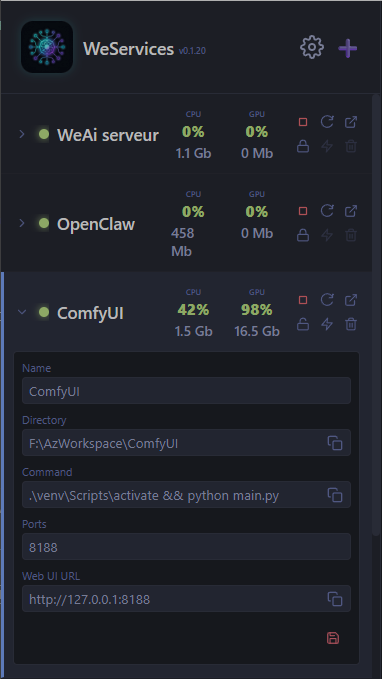
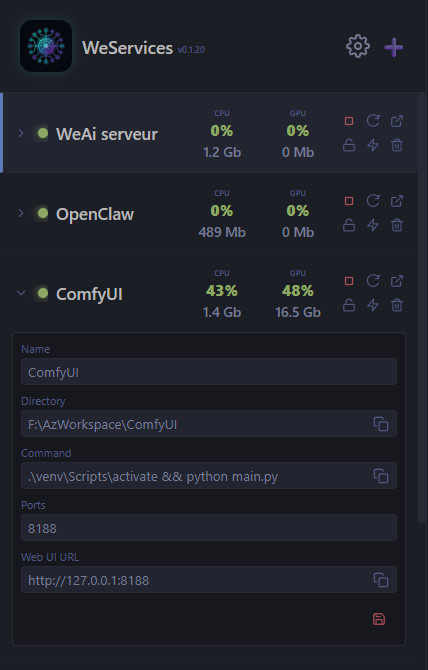
docs: add settings screenshot to README and update interface/editor

diff --git a/README.md b/README.md
@@ -44,6 +44,10 @@ https://github.com/user-attachments/assets/dac219cd-6caf-4ce9-ba70-59e598d0462f
 - 🧠 **The Launch Vault**: It permanently stores all your exact launch commands, directories, and target ports. No more forgetting how to boot up a specific service.
 - 🟢 **One-Click Start/Stop**: Start or stop individual services, or hit the **Global Play** button to boot up your entire stack at once.
 - 🧟♂ **Force Kill Zombies (Plumber)**: Did a service crash but keep its port open? Click the ⚡ (Zap) icon to magically find and ruthlessly murder the zombie process holding your port hostage.
+- ⚙ **Quick Settings**: Easily configure auto-start preferences, computer boot settings, and toggle the new high-precision hardware tracking engine.
+  
+  <img src="./assets/settings.png" alt="Settings Configuration" width="500"/>
+
 - 📝 **Inline Editing**: Double-click any locked service to instantly open the inline editor. Change the starting directory, the boot command, or the target port on the fly.
   
   <img src="./assets/editor.png" alt="Inline Editor Details" width="500"/>
